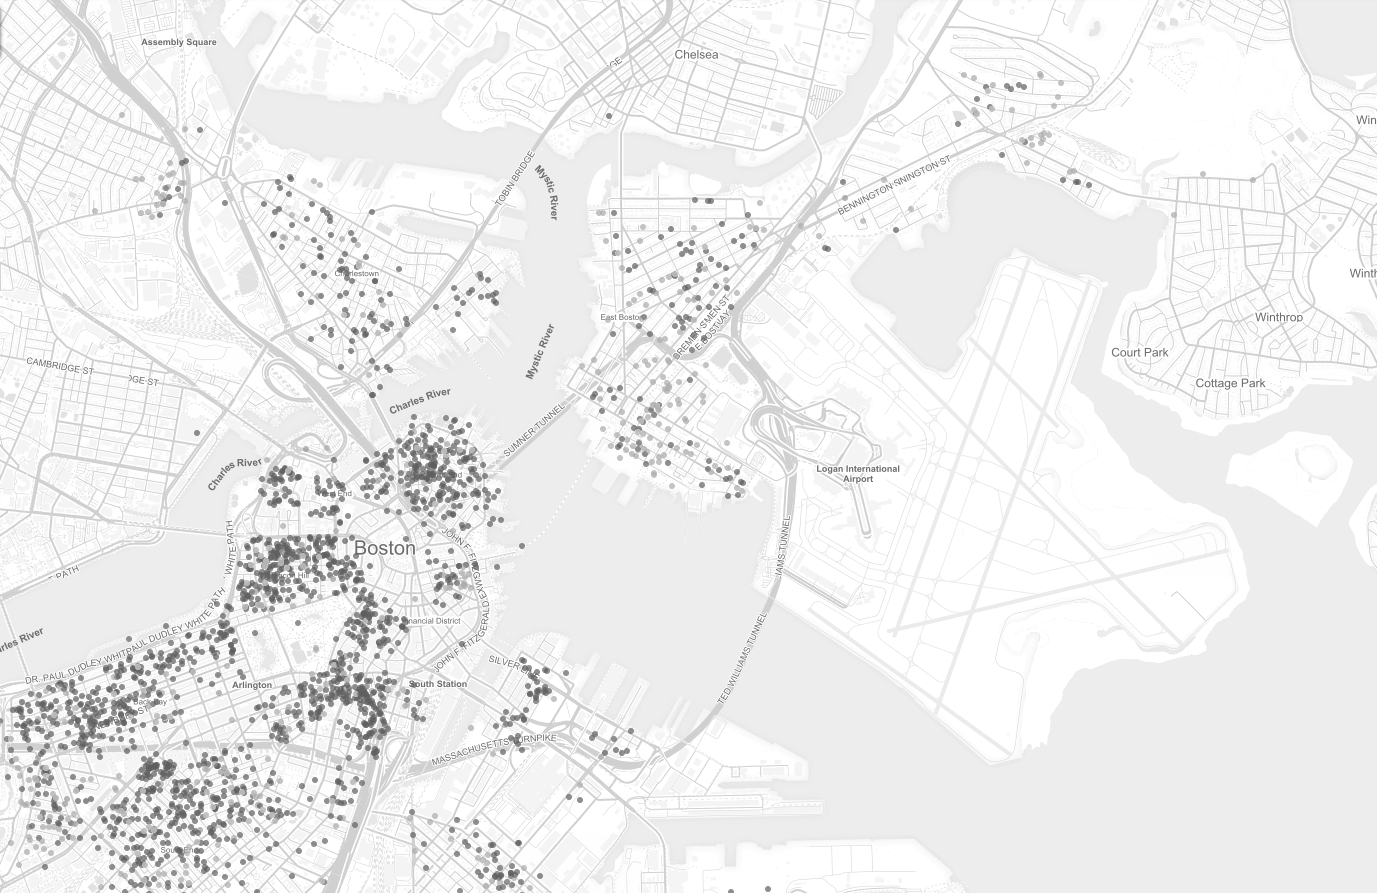
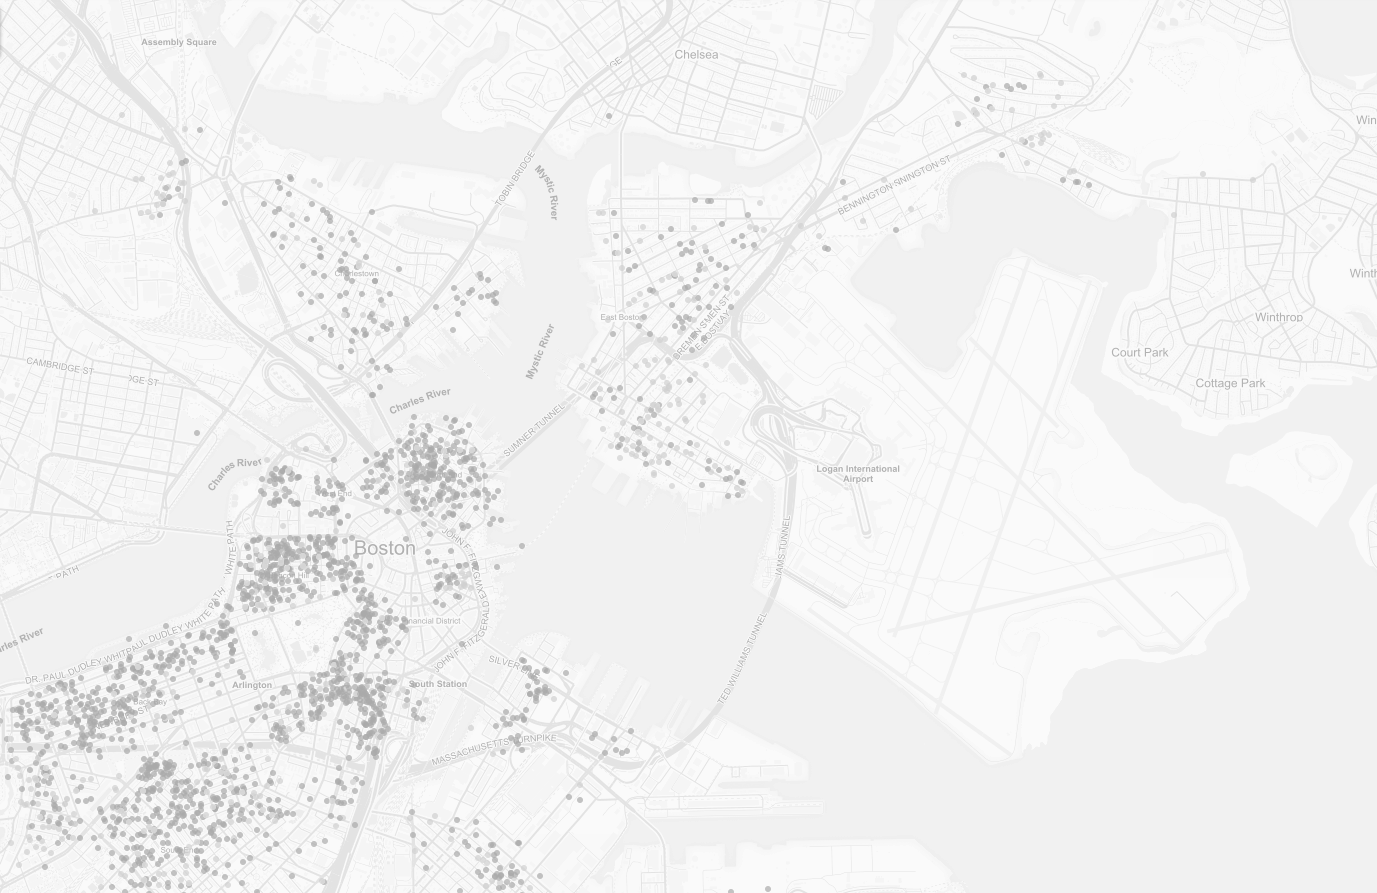
fix the bg.jpg

diff --git a/_site/index.html b/_site/index.html
@@ -43,7 +43,7 @@
 				// sectionsColor: ['#C63D0F', '#1BBC9B', '#7E8F7C'],
 				navigation: true,
 				navigationPosition: 'right',
-				navigationTooltips: ['First', 'Second', 'Third','Fourth'],
+				// navigationTooltips: ['First', 'Second', 'Third','Fourth'],
         navigationColor: ['#C63D0F', '#1BBC9B', '#7E8F7C'],
 			});
 		});
@@ -112,12 +112,19 @@
 
     </div>
   	<div class="section" id="section2">
+      <!-- <div class = "container"> -->
+        <!-- <div class = "row">
+          <div class = "column EastBoston"> -->
+          <div id="contentInside2">
+            <h2 class="EastBoston_head">The location, room type and price of Airbnb rooms in East Boston.</h2>
+          </div>
+          <div id="mapInside2">
+            <iframe  src="map.html" width=600 height="600" scrolling ="no"></iframe>
+          </div>
+          <!-- </div>
+        </div> -->
+      <!-- </div> -->
 
-        <div>
-          <h2 class="EastBoston_head">The location, room type and price of Airbnb rooms in East Boston.</h2>
-        </div>
-
-      <iframe  src="map.html" width=600 height="600" scrolling ="no"></iframe>
 
     </div>
   	<div class="section" id="section3">
@@ -140,20 +147,20 @@
           <!-- <script src="scatterplot.js"></script> -->
         <iframe id= "scatterplot" src="ScatterPlot.html" width=980 height=530 scrolling ="no"></iframe>
 
-        <!-- <h6 class="EastBoston_footer"><span class="EastBoston_footer">Visualizing Eastie</span> is a project of the <a href="https://www.northeastern.edu/visualization/">Information Design and Visualization program</a> at Northeastern University. © 2018</h6> -->
+        <h6 class="EastBoston_footer"><span class="EastBoston_footer">Visualizing Eastie</span> is a project of the <a href="https://www.northeastern.edu/visualization/">Information Design and Visualization program</a> at Northeastern University. © 2018</h6>
       </div>
 
     </div>
 
   </div>
 
-  <script>
+  <!-- <script>
   $(document).ready(function(){
     $('#fullpage').fullpage();
 
 
   });
-  </script>
+  </script> -->
 
 
 <!-- End Document

diff --git a/index.html b/index.html
@@ -43,7 +43,7 @@
 				// sectionsColor: ['#C63D0F', '#1BBC9B', '#7E8F7C'],
 				navigation: true,
 				navigationPosition: 'right',
-				navigationTooltips: ['First', 'Second', 'Third','Fourth'],
+				// navigationTooltips: ['First', 'Second', 'Third','Fourth'],
         navigationColor: ['#C63D0F', '#1BBC9B', '#7E8F7C'],
 			});
 		});
@@ -112,12 +112,19 @@
 
     </div>
   	<div class="section" id="section2">
+      <!-- <div class = "container"> -->
+        <!-- <div class = "row">
+          <div class = "column EastBoston"> -->
+          <div id="contentInside2">
+            <h2 class="EastBoston_head">The location, room type and price of Airbnb rooms in East Boston.</h2>
+          </div>
+          <div id="mapInside2">
+            <iframe  src="map.html" width=600 height="600" scrolling ="no"></iframe>
+          </div>
+          <!-- </div>
+        </div> -->
+      <!-- </div> -->
 
-        <div>
-          <h2 class="EastBoston_head">The location, room type and price of Airbnb rooms in East Boston.</h2>
-        </div>
-
-      <iframe  src="map.html" width=600 height="600" scrolling ="no"></iframe>
 
     </div>
   	<div class="section" id="section3">
@@ -140,20 +147,20 @@
           <!-- <script src="scatterplot.js"></script> -->
         <iframe id= "scatterplot" src="ScatterPlot.html" width=980 height=530 scrolling ="no"></iframe>
 
-        <!-- <h6 class="EastBoston_footer"><span class="EastBoston_footer">Visualizing Eastie</span> is a project of the <a href="https://www.northeastern.edu/visualization/">Information Design and Visualization program</a> at Northeastern University. © 2018</h6> -->
+        <h6 class="EastBoston_footer"><span class="EastBoston_footer">Visualizing Eastie</span> is a project of the <a href="https://www.northeastern.edu/visualization/">Information Design and Visualization program</a> at Northeastern University. © 2018</h6>
       </div>
 
     </div>
 
   </div>
 
-  <script>
+  <!-- <script>
   $(document).ready(function(){
     $('#fullpage').fullpage();
 
 
   });
-  </script>
+  </script> -->
 
 
 <!-- End Document

diff --git a/_site/css/mystyle.css b/_site/css/mystyle.css
@@ -1,5 +1,5 @@
 #section1{
-  background-image: url(/images/bg.png);
+  background-image: url(/images/bg.jpg);
 
 }
 div.transbox
@@ -28,4 +28,15 @@ div.transbox
   pointer-events: none;
   background-color:white;
   /* background-color: #5bcaff; */
+}
+
+
+# contentInside2 {
+   width:350px;
+    float:left;
+    padding:10px;
+}
+
+# mapInside2 {
+    float:right;
 }

diff --git a/css/mystyle.css b/css/mystyle.css
@@ -1,5 +1,5 @@
 #section1{
-  background-image: url(/images/bg.png);
+  background-image: url(/images/bg.jpg);
 
 }
 div.transbox
@@ -28,4 +28,15 @@ div.transbox
   pointer-events: none;
   background-color:white;
   /* background-color: #5bcaff; */
+}
+
+
+# contentInside2 {
+   width:350px;
+    float:left;
+    padding:10px;
+}
+
+# mapInside2 {
+    float:right;
 }
